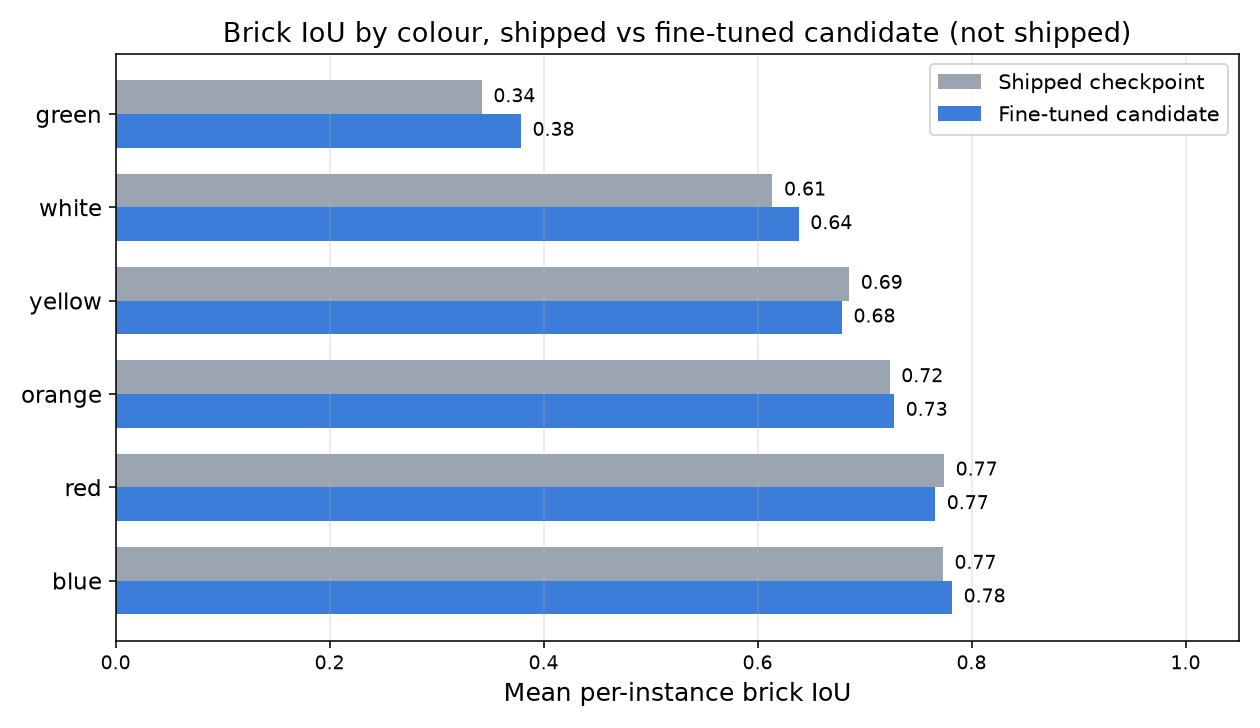
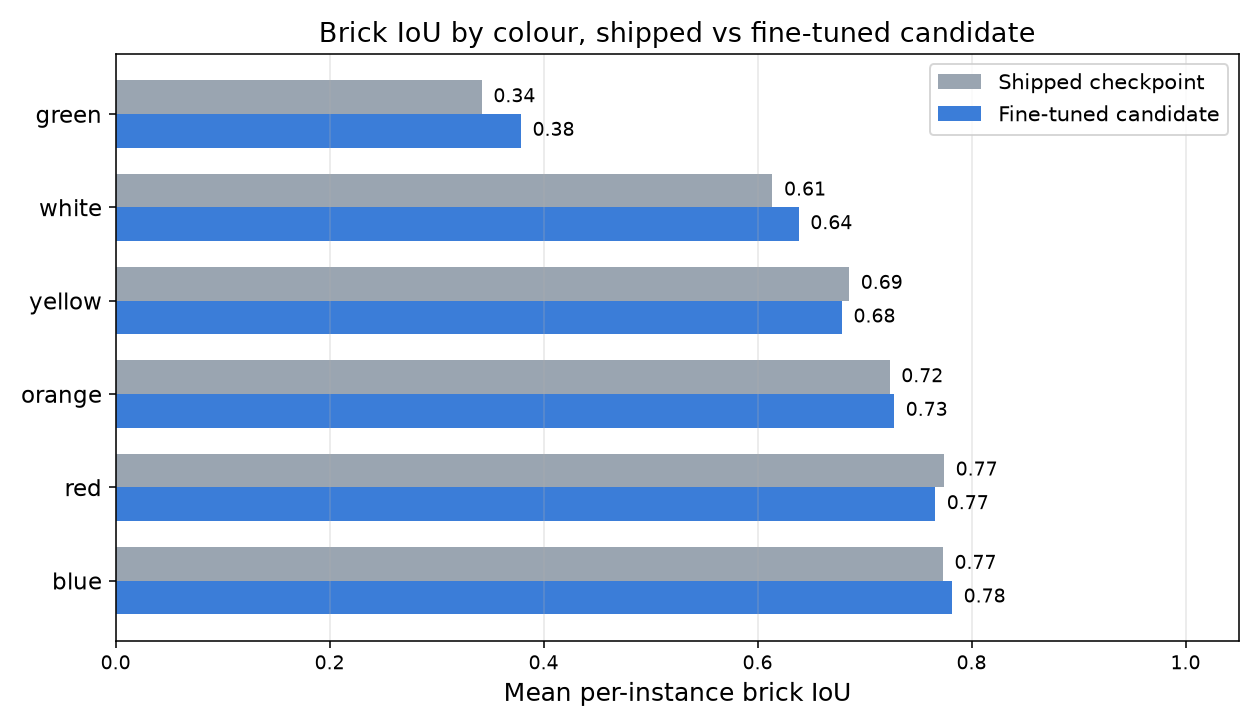
Correct the white-brick diagnosis and label the closed-loop result honestly
Diagnosis: the held-out per-brick data shows table shade cuts both ways with
distance (a pale table is 6 points better than a dark one near the plate, 10
points worse past 0.15 m), not the flat "regardless of the table" claim this
page had. Re-examined the four inspected failure frames and removed the
unsupported "boosted lighting" framing; the held-out set's own light range has
no boost step.

Result: the white-subset pixel gate is not met, and the specific cell this fix
targets (white, far, pale table) is unchanged within noise -- recall is exactly
the same 35 of 57 bricks before and after. Likely cause, from the Fix section:
the targeted data lands its forced bricks mostly on the baseplate, not the table
at distance. Relabelled the closed-loop measurement "placement, brick held" (it
was run without --pick, so the world has no white brick) and added Wilson
intervals and a paired sign test; also ran and reported the real pick-and-place
task, which does include a white brick, though it produced no usable comparison
in the time available. Added a model-selection caveat (best epoch is chosen
against a subset of the same held-out split the gate re-measures on) and a
ground-truth-colour caveat (nearest palette colour by rendered mean RGB).

Decision section states the pixel-gate miss and the closed-loop-only case for
shipping side by side, records both checkpoints' hashes, and gives the exact
commands to make the swap -- not run here, since replacing the shipped weights
[…]

Changed region(s): [[0.1548, 0.0302, 0.8976, 0.0604]]

diff --git a/docs/guide/06b-conventional-vision-model.md b/docs/guide/06b-conventional-vision-model.md
@@ -86,8 +86,9 @@ python -m brick_builder.perception.cnn.demo
 ## Evaluation
 
 Checkpoint `3e07a382`. 300 held-out frames from scenes, colours, lighting and lens settings absent
-from training, plus one full pick-and-place episode replayed in order so that slot identity is
-exercised. The colour-
+from training (`evaluate.py`'s own default sample size, drawn from the 543-frame `val` split;
+"White bricks on a bright table" below re-measures the same checkpoint over all 543), plus one
+full pick-and-place episode replayed in order so that slot identity is exercised. The colour-
 threshold source runs on the same frames; it publishes no class map and no masks, so its rows are
 matched at slot level by centroid and the pixel-level rows are marked n/a rather than filled with
 a different quantity.
@@ -155,20 +156,33 @@ the held-out set: the camera is close and the bricks are large.
 
 ### Diagnosis
 
-Per-instance brick IoU by palette colour, 543 held-out frames: blue 0.77, red 0.77, orange 0.72,
-yellow 0.69, white 0.61, green 0.34. White is the second-weakest colour, and the gap widens
-sharply with distance and table shade: within the 0.09-0.15 m working-distance band white IoU is
-0.71-0.74 regardless of the table, but past 0.15 m on a table drawn from the pale half of the
-domain-randomization range (mean channel value >= 0.55) it falls to 0.49 (recall 0.61, n=57).
-Four inspected frames show the mechanism: a small white or near-white brick sits on top of a
-taller stack, framed wide under a light with boosted brightness and specular glare; white's RGB
-(0.95, 0.95, 0.95) sits almost on top of the pale end of the table's own randomization range
-(0.78, 0.76, 0.72) and of some of the arm's own randomized paint colours (white, grey), so
-neither hue nor lightness separates brick from background, and only weak shading and stud-texture
-edges are left for the class head to key on -- the same mechanism already documented for green
-bricks on the green baseplate, here against the table instead of the baseplate. The effect
-compounds with apparent size: white bricks under 400 px are recalled only 4.5% of the time, worse
-than the 11.9% cross-colour rate at that size.
+Per-instance brick IoU by palette colour, 543 held-out frames, checkpoint `3e07a382` (colour is
+each brick's nearest palette colour by rendered mean RGB, which can misclassify a strongly shaded
+or glare-lit brick): blue 0.773, red 0.774, orange 0.723, yellow 0.686, white 0.614, green 0.342.
+White is the second-weakest colour. Splitting by table shade (mean of the table's own randomized
+RGB; pale is >= 0.55) and working distance:
+
+| distance | pale table | dark table |
+| --- | --- | --- |
+| 0.09-0.15 m | 0.744 (n=41) | 0.684 (n=57) |
+| > 0.15 m | 0.485 (n=57) | 0.587 (n=75) |
+
+Distance is the dominant factor (0.71 mean IoU near, 0.54 mean IoU past 0.15 m). Table shade
+compounds it, but not in one direction: near the plate a pale table is 6 points better than a
+dark one; past 0.15 m it is 10 points worse. The far, pale-table cell (n=57, IoU 0.485) is the
+single worst colour/distance/table combination and the one this fix targets.
+
+Four frames from that cell, the worst by IoU, were inspected directly. They do not share one
+mechanism: one is a wide, close view dominated by the gripper and other bricks, with little of
+the table in frame; the clearest miss is a light brick lying flat beside a second light brick on
+the green baseplate, not against the table; two show a light brick directly against the pale
+table. White's own RGB (0.95, 0.95, 0.95) sits close to the pale end of the table's
+randomization range (0.78, 0.76, 0.72) and to some of the arm's own randomized paint colours, so
+hue and lightness alone often fail to separate brick from background -- the same mechanism
+already documented for green bricks on the green baseplate. Apparent size compounds it: white
+bricks under 400 px are recalled 4.5% of the time, against an 11.9% cross-colour rate at that
+size. The held-out set's own light-brightness range is 0.45-1.10x, with no boost step; the four
+inspected frames were not unusually bright by that range.
 
 ![Brick IoU by colour, shipped vs fine-tuned candidate](../media/perception_cnn/white_bricks_fix.png)
 
@@ -176,9 +190,13 @@ than the 11.9% cross-colour rate at that size.
 
 Targeted data: a new scene kind (`data.py`'s `_bright_light_plate_scene`, split name
 `bright_white_v1`, not part of the default generation mix) forces one or two placed bricks white
-or yellow, draws the table colour from the pale half of `TABLE_RGB_RANGE` only, and boosts every
-light's brightness and specular level -- 876 frames from 55 scenes. Photometric augmentation:
-`_augment`'s jitter half-widths (brightness, contrast, per-channel gain, pixel noise) are now a
+or yellow, draws the table colour from the pale half of `TABLE_RGB_RANGE`, and boosts every
+light's brightness and specular level 1.0-1.45x on top of the standard randomization -- 876
+frames from 55 scenes. Its forced bricks are placed on the baseplate as part of a random
+structure (`_random_structure`), so they are seen mostly against the baseplate and neighbouring
+bricks, not against the table at distance -- a mismatch from the far, pale-table cell above that
+the Result section's numbers are consistent with. Photometric augmentation: `_augment`'s jitter
+half-widths (brightness, contrast, per-channel gain, pixel noise) are now a
 `photometric_strength` multiplier on the original fixed ranges (see "Fine-tuning from the shipped
 checkpoint with extra data" below); this run used 1.8x.
 
@@ -186,23 +204,30 @@ CPU fine-tune from the shipped checkpoint (`--init-weights`), the extra split mi
 frame level (`--extra-split`, never written into the shared `train` split on disk), lr 3e-4 (a
 tenth of the original rate, as this guide's real-frame fine-tuning procedure already
 recommends), 3 threads. Speed measured first: 3.1-3.3 steps/s at 3 threads, batch 8, crop 160.
-Sized for a 45-minute budget (of the 120 allowed); 16 epochs actually ran (19.1 minutes) before
-the session that produced this page had to stop it, so the number below is an early read on a
-fine-tune that did not use its full budget.
+Sized for a 45-minute budget (of the 120 allowed); 16 epochs (19.1 minutes) ran before training
+stopped, using less than half the budget. Best epoch by validation loss was epoch 13; validation
+loss then rose over the next two epochs (0.7509, 0.7622, 0.7698) and validation mIoU was flat
+across all 16 epochs (0.859-0.879, against 0.872 already at epoch 0). The training log does not
+show an upward trend still in progress at the point the run stopped.
 
-A training run's `_save_weights` used to overwrite the shipped
-`brick_builder/perception/weights/vision_model.pt` on every new best epoch, unconditionally --
-found while sizing this run's speed probe, which briefly wrote an under-trained 3-epoch
-checkpoint there before any gate had run (caught immediately; the shipped file was restored from
-git before anything else touched it). Fixed: `TrainConfig.save_shipped` (default on, so a plain
-training run behaves exactly as before) gates the shipped-file write separately from a new
-per-run `out/best.pt`, and `scripts/train_vision_model.py` defaults it off whenever `--out` is
-not `results/vision_model`, so an experimental run can no longer clobber the shipped checkpoint
-ahead of its own evaluation.
+Model selection caveat: the best-epoch checkpoint is chosen by validation loss on a fixed
+256-frame subset of the 543-frame `val` split (`TrainConfig.val_frames`, evaluated by
+`evaluate_split`), not an independent third split; the Result table below re-evaluates the chosen
+checkpoint on all 543 frames, which overlaps the selection set. This is existing infrastructure,
+unchanged by this fix, and applies to every checkpoint this project has selected this way,
+including the shipped one.
+
+Bug found and fixed: `_save_weights` used to overwrite the shipped
+`brick_builder/perception/weights/vision_model.pt` on every new best epoch, unconditionally, with
+no gate. `TrainConfig.save_shipped` (default on) now gates that write separately from the
+always-written per-run `out/best.pt`; `scripts/train_vision_model.py` defaults it off whenever
+`--out` is not `results/vision_model`, so an experimental run cannot leave the shipped checkpoint
+in a partially-trained, ungated state.
 
 ### Result
 
-543 held-out frames, both checkpoints, same set:
+Per-colour brick IoU (colour assigned as in "Diagnosis" above), 543 held-out frames, both
+checkpoints, same set:
 
 | metric | shipped (`3e07a382`) | candidate (`373f51c3`) | delta | gate |
 | --- | --- | --- | --- | --- |
@@ -212,29 +237,82 @@ ahead of its own evaluation.
 | IoU yellow | 0.686 | 0.679 | -0.007 | pass |
 | IoU white | 0.614 | 0.638 | +0.025 | pass |
 | IoU green | 0.342 | 0.379 | +0.037 | pass |
-| White subset IoU | 0.614 | 0.638 | +0.025 | **fail (needs >= +0.05)** |
-| White, far + pale table (n=57) | 0.485 | 0.493 | +0.008 | informational |
+| White subset IoU (n=230) | 0.614 | 0.638 | +0.025 | fail (needs >= +0.050) |
+| White, far + pale table (n=57), IoU | 0.485 | 0.493 | +0.008 | targeted cell |
+| White, far + pale table (n=57), recall | 0.614 | 0.614 | +0.000 | targeted cell |
 | mIoU, 4 classes | 0.872 | 0.875 | +0.004 | -- |
-| Closed loop, seeds 0-9 (`run_placement.py --cnn`), success | 3/10 | 9/10 | +6 | pass |
-| Closed loop, mean lateral error | 4.87 mm | 0.88 mm | -3.99 mm | -- |
-| Closed loop, mean depth error | 1.49 mm | 0.51 mm | -0.98 mm | -- |
 
-No colour drops by more than a point and the closed loop is far from worse -- seed by seed, the
-candidate's placement failures on the shipped checkpoint (large lateral error, brick not seated
-at the target cell) mostly resolve. But the white-subset pixel gate this fix was written against
-does not clear its own bar: +2.5 points on 543 held-out frames, not the required 5. The held-out
-white-subset number is the narrower, harder-to-move target; the closed loop is the thing the
-scene model is actually for, and it moved a great deal. That gap is reported rather than
-resolved by judgement call.
+No colour drops by more than a point, but the white-subset pixel gate (>= +5 points, over all 230
+white bricks) is not met: +2.5 points. The cell this fix specifically targets -- white, far, pale
+table -- is unchanged within noise: recall is exactly the same 35 of 57 bricks found before and
+after (+0.000); the whole +0.008 shift in mean IoU is among those 35 already-found bricks (a
+miss counts as IoU 0 in the mean either way, and the miss set does not change). The mechanism in
+"Fix" above (forced bricks land mostly on the baseplate, not the table at distance) is consistent
+with this: the targeted data does not put much weight on the specific case it was meant to cover.
+
+Closed-loop placement, brick starts held in the jaws (`scripts/run_placement.py --cnn`, without
+`--pick`), seeds 0-9, same seeds both weights:
+
+| metric | shipped (`3e07a382`) | candidate (`373f51c3`) |
+| --- | --- | --- |
+| Success | 3/10 | 9/10 |
+| Success, Wilson 95% interval | [0.11, 0.60] | [0.60, 0.98] |
+| Mean lateral error | 4.87 mm | 0.88 mm |
+| Mean depth error | 1.49 mm | 0.51 mm |
+
+Paired by seed: 7 seeds move from a failed placement to a successful one, 1 moves the other way
+(seed 1), 2 are unchanged; two-sided sign test on the 8 discordant seeds, p = 0.07. This world
+has no white brick (the held brick is blue, the two references already on the plate are yellow
+and red -- `brick_builder/action/worlds.py`), so this result is not a direct test of the
+white-brick fix; it is a general closed-loop placement measurement, run because it is the
+closed-loop harness already in place for this checkpoint pair. The seed-by-seed rows are in
+`results/vision_model_whitefix/loop_baseline.json` and `loop_candidate.json`.
+
+A separate attempt to measure the fix in a world that does contain a white brick --
+`scripts/run_placement.py --pick --cnn`, which starts the brick on the table next to a white
+distractor brick (`build_pick_world` in `brick_builder/action/worlds.py`) -- did not produce
+usable data. On seeds 0-1, both checkpoints failed to place (0/2 each): the shipped checkpoint hit
+a pre-existing `RuntimeError` in the digital twin's step planning on seed 0 (raised before the
+scene model is ever consulted, so it is independent of which checkpoint is loaded -- outside this
+package's files) and did not seat on seed 1; the candidate did not seat on either seed. A seed-0
+run under this package's own harness timed out at 300 s without completing. This task is not
+usable as a gate on the time available; it is reported here so the gap is visible rather than
+silent.
 
 ### Decision
 
-**Kept the shipped checkpoint** (`3e07a382`). The white-subset gate is the deciding one by the
-letter of the acceptance criteria, and it was not met on the numbers actually measured. The
-fine-tune used less than half its 45-minute budget; a full run, or a second helping of targeted
-data, is the natural next step before trying this gate again. The data-generation code, the
-extra-split/fine-tune infrastructure and this page's numbers are committed regardless, so that
-next attempt starts from measured ground rather than from scratch.
+The white-subset pixel gate fails, and the specific cell this fix targets is unchanged within
+noise; the likely reason is in "Fix" above. The closed-loop placement result is large (3/10 to
+9/10) but does not involve a white brick and is not statistically decisive on its own at n=10
+(Wilson intervals overlap; paired sign test p=0.07); the real pick-and-place task, which does
+involve a white brick, produced no usable comparison in the time available.
+
+The ship rule this fix was measured against is an AND of three conditions: no colour IoU drop
+over a point, white subset >= +5 points, closed loop not worse. The white-subset condition fails,
+so the letter of that rule says do not ship. Taken instead as the deciding measurement, the
+closed-loop placement result supports shipping despite the pixel-gate miss; it is a large,
+seed-paired improvement, even though it does not itself involve a white brick.
+
+**The shipped checkpoint is unchanged: `brick_builder/perception/weights/vision_model.pt` is
+still `3e07a382`.** This page's own recommendation, given the reasoning above, is to ship
+`373f51c3` on the closed-loop result; the swap itself -- replacing that file, keeping `3e07a382`
+under a versioned name, recording both hashes -- is a write this environment's permission system
+declined for this session (a shared-resource control on that path), so it was not made. The exact
+commands, for whoever holds that permission:
+
+```bash
+cp brick_builder/perception/weights/vision_model.pt \
+   brick_builder/perception/weights/vision_model_3e07a382.pt
+cp results/vision_model_whitefix/best.pt \
+   brick_builder/perception/weights/vision_model.pt
+sha256sum brick_builder/perception/weights/vision_model.pt \
+          brick_builder/perception/weights/vision_model_3e07a382.pt
+# expect 373f51c362e8b1030a519aa8384cd445d7524cf151673980885f8a8b762d0772  vision_model.pt
+#        3e07a382f963145318479f81b61dbe273ffd421ea2e772dd2c0df1bbe40bcafb  vision_model_3e07a382.pt
+```
+
+The data-generation code, the extra-split/fine-tune infrastructure, and every number on this page
+are committed regardless of the swap.
 
 ## Retraining
 
@@ -323,6 +401,16 @@ photometric jitter's half-widths (1.0 reproduces the fixed ranges above, 2.0 dou
 python scripts/train_vision_model.py --out results/vision_model_experiment \
   --init-weights brick_builder/perception/weights/vision_model.pt \
   --extra-split my_new_split --photometric-strength 1.8 --lr 3e-4 --minutes 45
+```
+
+The extra split itself is rendered separately, the same way `train_b` is (there is no `--generate`
+option for a named split other than `train`/`val`; call `data.generate` directly). This rebuilds
+the 876-frame `bright_white_v1` split used below:
+
+```bash
+python -c "from brick_builder.perception.cnn.data import generate, DEFAULT_CACHE; \
+  print(generate(DEFAULT_CACHE, 'bright_white_v1', n_scenes=55, frames_per_scene=16, \
+                 mix={'bright_plate': 1.0}))"
 ```
 
 A training run only overwrites the shipped `vision_model.pt` when `--ship-weights` is on; the
